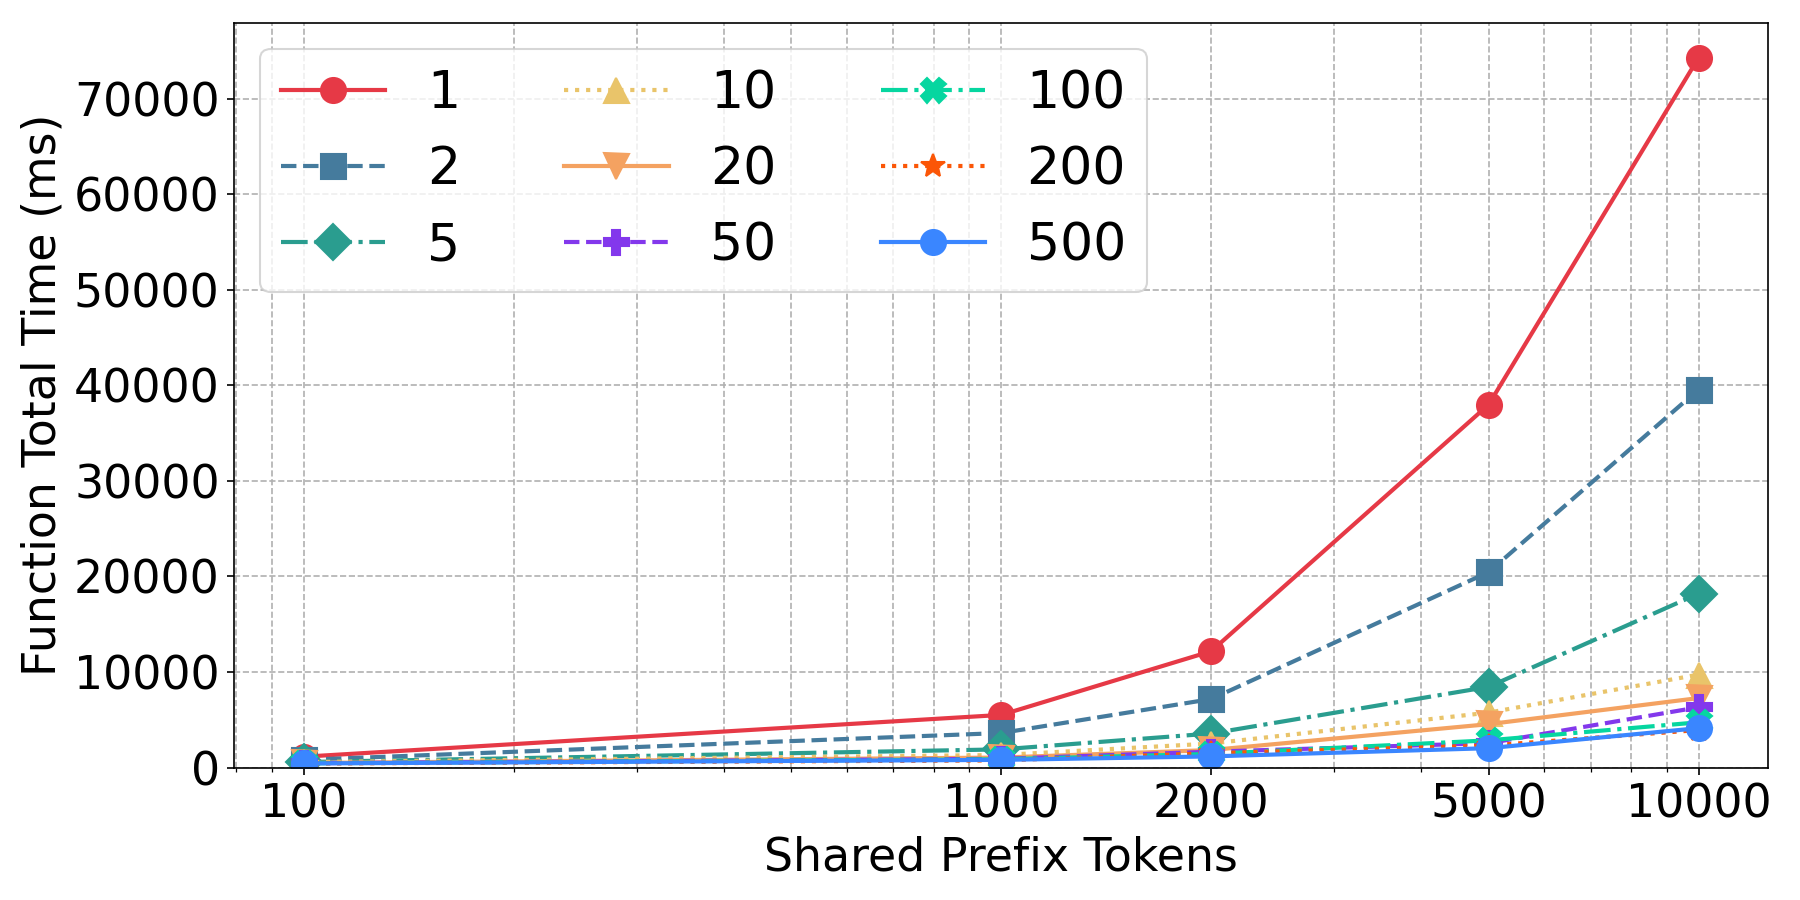
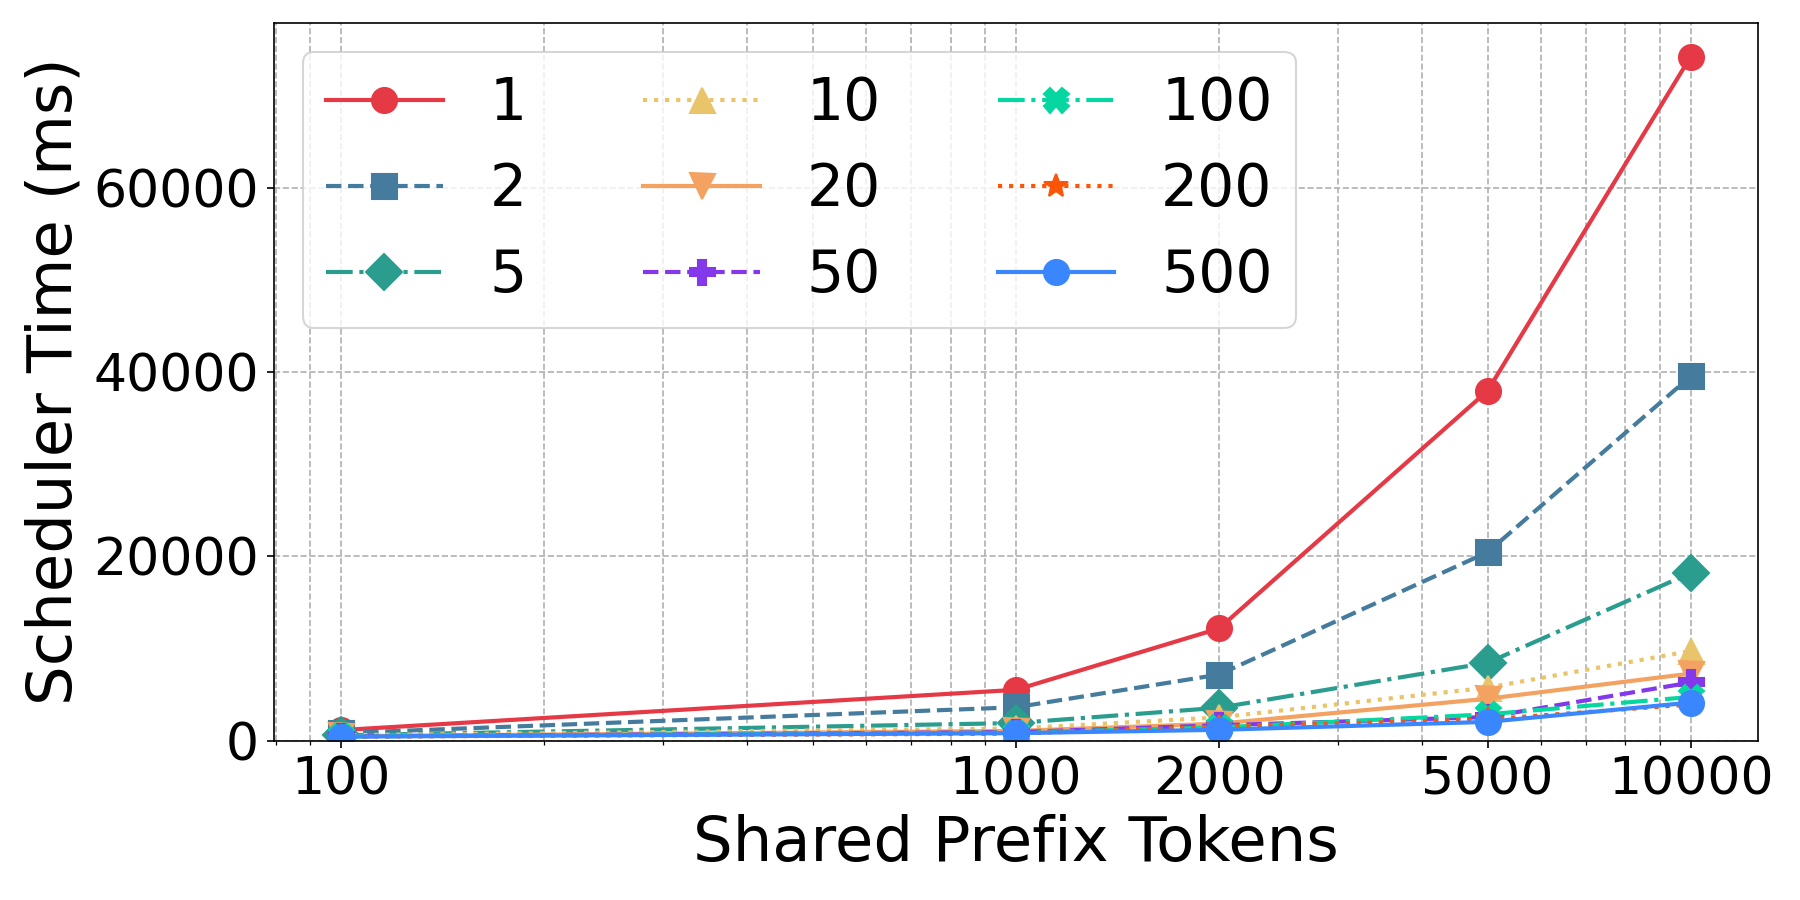
overhead

diff --git a/code/vllm/chunk_size_logs/plot.py b/code/vllm/chunk_size_logs/plot.py
@@ -128,14 +128,14 @@ for i, label in enumerate(labels):
     )
 
 ax.set_xscale("log")
-ax.set_xlabel("Shared Prefix Tokens", fontsize=22)
-ax.set_ylabel("Function Total Time (ms)", fontsize=22)
+ax.set_xlabel("Shared Prefix Tokens", fontsize=30)
+ax.set_ylabel("Scheduler Time (ms)", fontsize=30)
 
 ax.set_xticks(all_sys_toks)
 ax.get_xaxis().set_major_formatter(ticker.ScalarFormatter())
 
-ax.legend(fontsize=25, ncol=3)
-ax.tick_params(axis="both", labelsize=22)
+ax.legend(fontsize=28, ncol=3)
+ax.tick_params(axis="both", labelsize=25)
 ax.grid(True, which="both", linestyle="--")
 ax.set_ylim(bottom=0)
 
@@ -169,14 +169,14 @@ for i, label in enumerate(labels):
     )
 
 ax.set_xscale("log")
-ax.set_xlabel("Shared Prefix Tokens", fontsize=22)
-ax.set_ylabel("Throughput (tokens/sec)", fontsize=22)
+ax.set_xlabel("Shared Prefix Tokens", fontsize=30)
+ax.set_ylabel("Throughput (toks/s)", fontsize=30)
 
 ax.set_xticks(all_sys_toks)
 ax.get_xaxis().set_major_formatter(ticker.ScalarFormatter())
 
-ax.legend(fontsize=25, ncol=3)
-ax.tick_params(axis="both", labelsize=22)
+ax.legend(fontsize=28, ncol=3)
+ax.tick_params(axis="both", labelsize=25)
 ax.grid(True, which="both", linestyle="--")
 ax.set_ylim(bottom=0)
 
